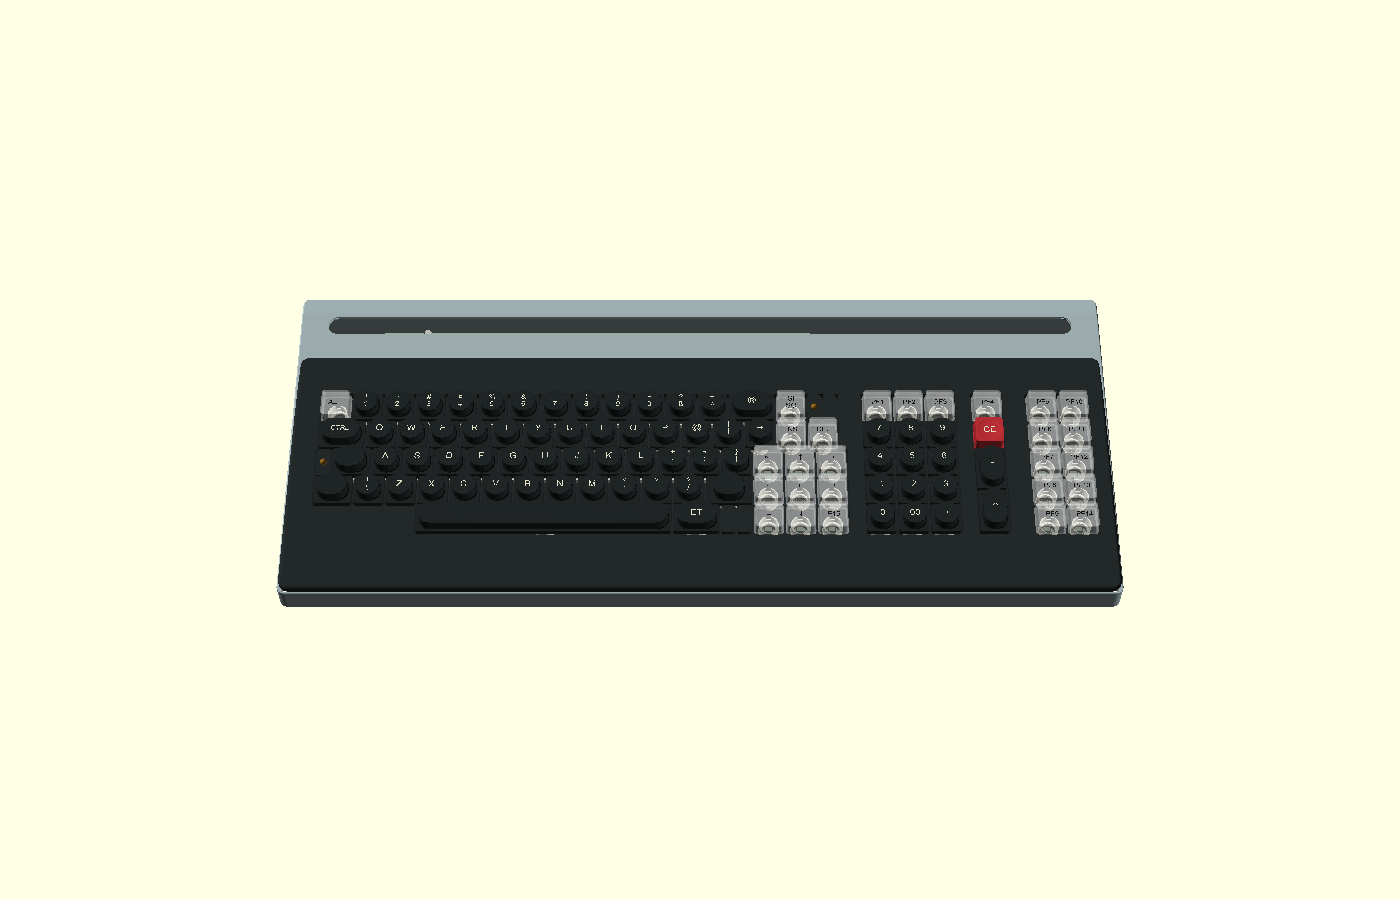
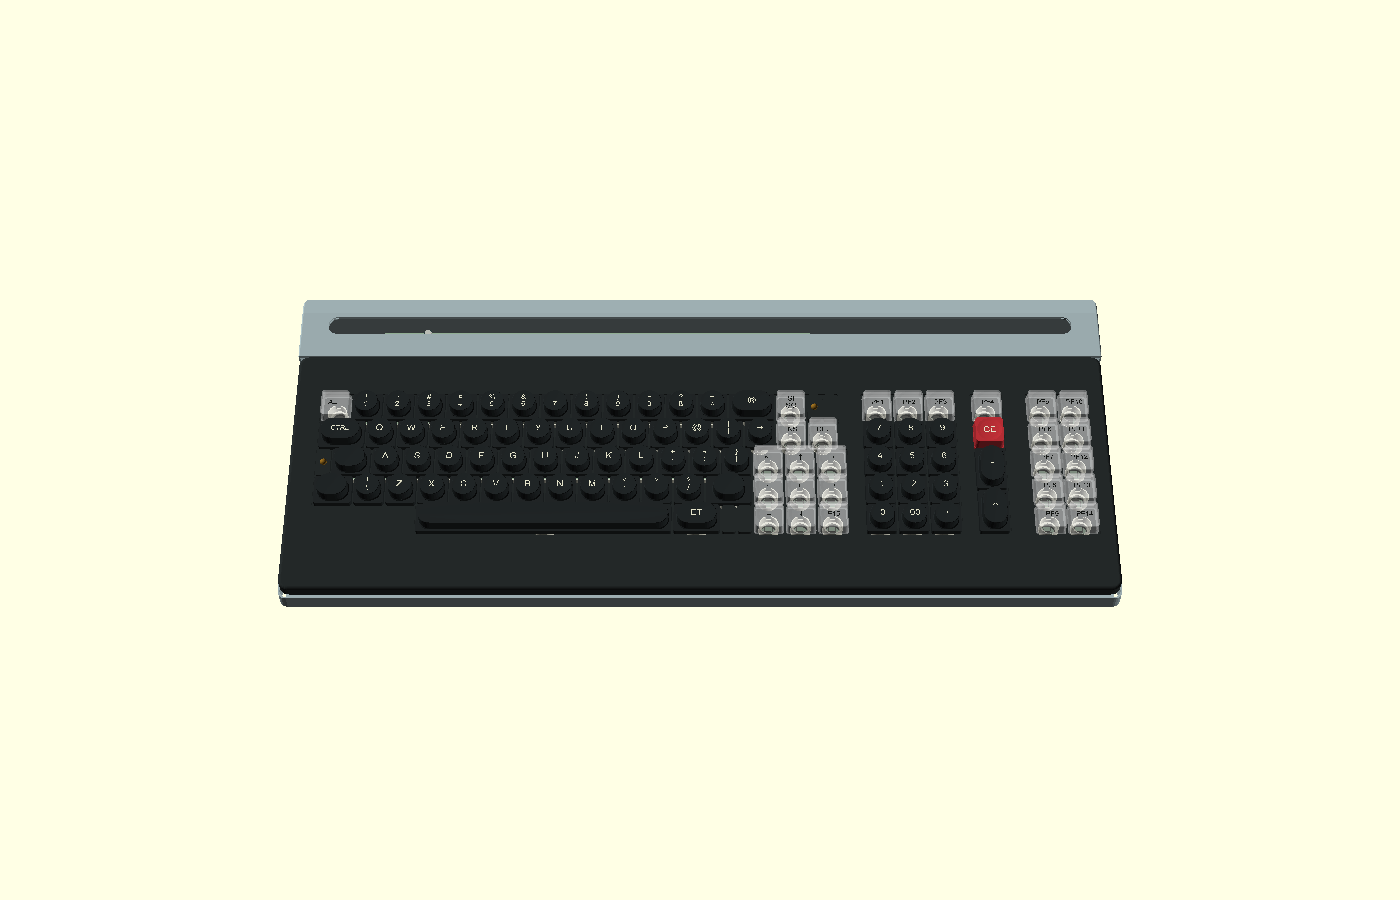
Make keyboard deck a uniform 8 mm folded sheet with 1 mm base gap

Changed region(s): [[0.1843, 0.6533, 0.7986, 0.6844]]

diff --git a/models/robotron-1715m/keyboard/README.md b/models/robotron-1715m/keyboard/README.md
@@ -85,3 +85,10 @@ approximately 6 mm plan corners and a 2 mm top-edge radius, visually fitted to
 owner photos `PXL_20261012_123006039.jpg` and `PXL_20261009_132919894.jpg`.
 These black-deck radii are estimates, separate from the light sheet-metal shell’s
 5 mm corner bends and approximately 1 mm top bend / sheet thickness.
+
+Owner correction: the black deck is an open folded **1 mm sheet**, with a
+uniform **8 mm** skirt height and a **1 mm** gap above the light base. Its top
+and bottom planes are parallel (both follow the keyboard tilt); it is not a
+wedge. The deck top and key mechanism datum stay in place while the skirt
+extends downward. The light base is trimmed to the parallel seating plane.
+The outer 2 mm / inner 1 mm top bends preserve 1 mm material thickness.
